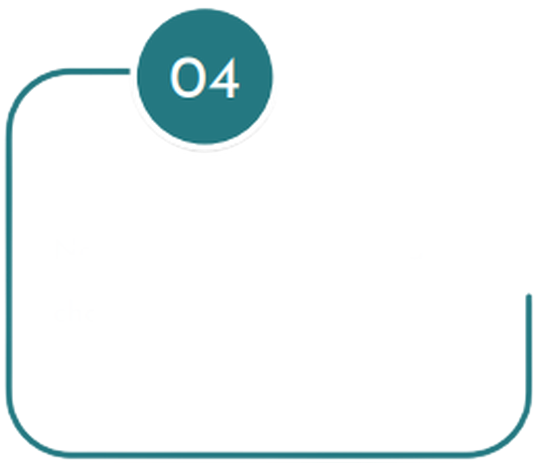
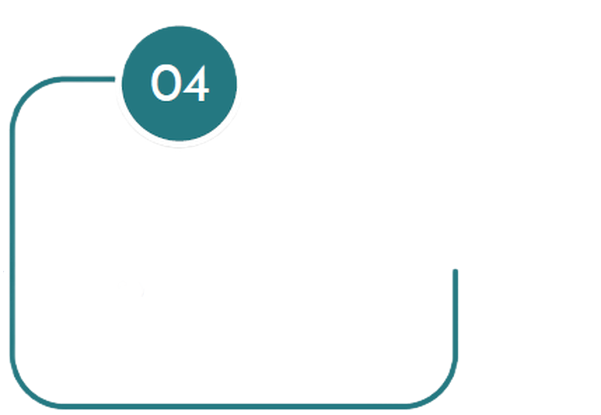
sixteenn

Changed region(s): [[0.0, 0.0, 0.5353, 0.9542], [0.0595, 0.6361, 1.0, 1.0], [0.7435, 0.6361, 0.7732, 0.9253]]

diff --git a/index.html b/index.html
@@ -54,7 +54,6 @@
         
         .swiper-slide img {
             display: block;
-          
         }
     </style>
 
@@ -197,43 +196,39 @@
     <!-- Offer-section-end -->
 
     <!-- four-steps-section-start -->
-    
-    <section class=" h-96 bg-[url('/image/map2.png')] bg-no-repeat bg-fixed bg-left bg-black/10 ">
-        <div class="w-80 mx-auto py-6">
+
+    <section class="bg-cover bg-center bg-[url('/image/map2.png')]   bg-no-repeat bg-fixed bg-right bg-black/10 md:pb-48 sm:pb-80  ">
+        <div class="w-80 md:mx-auto md:py-6 sm:py-12">
             <h4 class="text-xl text-emerald-300 uppercase tracking-wide font-semibold">Four easy steps</h4>
             <h4 class="text-2xl font-medium">How to Get Started</h4>
         </div>
-        <div class=" flex px-40  justify-center " >
-            <div class="backdrop-opacity-10 backdrop-invert bg-white/30">
+        <div class=" xl:px-40 sm:px-20  grid xl:grid-cols-4 md:grid-cols-2 md:justify-items-center gap-y-48">
+            <div class="backdrop-opacity-10 backdrop-invert bg-white/30 md:mb-36">
                 <img src="./image/step1.png" class="w-80" alt="">
-                <p class="-mt-28 font-semibold ml-10">Name your Campaign and <br>
-                    choose your country
+                <p class="-mt-28 font-semibold ml-10 ">Name your Campaign and <br> choose your country
                 </p>
-                <h5 class="text-xl font-medium -mt-36 ml-40"> Setup Your <br> Campaign</h5>
+                <h5 class="text-xl font-medium -mt-36 ml-40 md:-mt-32 md:ml-36"> Setup Your <br> Campaign</h5>
             </div>
-            <div class="backdrop-opacity-10 backdrop-invert bg-white/30">
+            <div class="backdrop-opacity-10 backdrop-invert bg-white/30 md:mb-36">
                 <img src="./image/step2.png" class="w-80" alt="">
-                <p class="-mt-28 font-semibold ml-10">Name your Campaign and <br>
-                    choose your country
+                <p class="-mt-28 font-semibold ml-10">Name your Campaign and <br> choose your country
                 </p>
-                <h5 class="text-xl font-medium -mt-36 ml-40"> Setup Your <br> Campaign</h5>
+                <h5 class="text-xl font-medium -mt-36 ml-40 md:-mt-32 md:ml-36"> Setup Your <br> Campaign</h5>
             </div>
             <div class="backdrop-opacity-10 backdrop-invert bg-white/30">
                 <img src="./image/step3.png" class="w-80" alt="">
-                <p class="-mt-28 font-semibold ml-10">Name your Campaign and <br>
-                    choose your country
+                <p class="-mt-28 font-semibold ml-10">Name your Campaign and <br> choose your country
                 </p>
-                <h5 class="text-xl font-medium -mt-36 ml-40"> Setup Your <br> Campaign</h5>
+                <h5 class="text-xl font-medium -mt-36 ml-40 md:-mt-32 md:ml-36"> Setup Your <br> Campaign</h5>
             </div>
             <div class="backdrop-opacity-10 backdrop-invert bg-white/30">
-                <img src="./image/step4.png" class="w-64" alt="">
-                <p class="-mt-28 font-semibold ml-10">Name your Campaign and <br>
-                    choose your country
+                <img src="./image/step4.png" class="w-80" alt="">
+                <p class="-mt-28 font-semibold ml-10">Name your Campaign and <br> choose your country
                 </p>
-                <h5 class="text-xl font-medium -mt-36 ml-40"> Setup Your <br> Campaign</h5>
+                <h5 class="text-xl font-medium -mt-36 ml-40 md:-mt-32 md:ml-36"> Setup Your <br> Campaign</h5>
             </div>
-      
-            </div>
+
+        </div>
 
         </div>
 
@@ -287,7 +282,7 @@
 
     </section> -->
     <section class="container mx-auto mb-28  lg:px-52">
-        <h1 class="text-center m-20 text-3xl font-light text-xl font-semibold uppercase ">Meet our Team</h1>
+        <h1 class="text-center text-base my-5 text-emerald-300 tracking-wide uppercase   text-5xl">Meet our Team</h1>
 
         <div class="swiper mySwiper1">
             <div class="swiper-wrapper">
@@ -302,8 +297,8 @@
                             <div class="flex justify-center space-x-2">
                                 <a href="#"><img class="w-8 h-8" src="/image/social (3).png" alt="facebook"></a>
                                 <a href="#"> <img class="w-8 h-8" src="/image/social (2).png" alt="instagram"></a>
-                               <a href="#"><img class="w-8 h-8" src="/image/social (1).png" alt="google"></a>
-                                
+                                <a href="#"><img class="w-8 h-8" src="/image/social (1).png" alt="google"></a>
+
                             </div>
                         </div>
                     </div>
@@ -318,7 +313,7 @@
                             <div class="flex justify-center space-x-2">
                                 <a href="#"><img class="w-8 h-8" src="/image/social (3).png" alt="facebook"></a>
                                 <a href="#"> <img class="w-8 h-8" src="/image/social (2).png" alt="instagram"></a>
-                               <a href="#"><img class="w-8 h-8" src="/image/social (1).png" alt="google"></a>
+                                <a href="#"><img class="w-8 h-8" src="/image/social (1).png" alt="google"></a>
                             </div>
                         </div>
                     </div>
@@ -334,7 +329,7 @@
                             <div class="flex justify-center space-x-2">
                                 <a href="#"><img class="w-8 h-8" src="/image/social (3).png" alt="facebook"></a>
                                 <a href="#"> <img class="w-8 h-8" src="/image/social (2).png" alt="instagram"></a>
-                               <a href="#"><img class="w-8 h-8" src="/image/social (1).png" alt="google"></a>
+                                <a href="#"><img class="w-8 h-8" src="/image/social (1).png" alt="google"></a>
                             </div>
                         </div>
                     </div>
@@ -350,7 +345,7 @@
                             <div class="flex justify-center space-x-2">
                                 <a href="#"><img class="w-8 h-8" src="/image/social (3).png" alt="facebook"></a>
                                 <a href="#"> <img class="w-8 h-8" src="/image/social (2).png" alt="instagram"></a>
-                               <a href="#"><img class="w-8 h-8" src="/image/social (1).png" alt="google"></a>
+                                <a href="#"><img class="w-8 h-8" src="/image/social (1).png" alt="google"></a>
                             </div>
                         </div>
                     </div>
@@ -369,9 +364,9 @@
     <!---- our-team-section-end -->
 
     <!-- Our-Client-Section-Start -->
-    
-    <section>
-        <div class="bg-slate-100 max-w-md p-10 rounded">
+
+    <section class="flex justify-center">
+        <div class="bg-slate-100 max-w-md p-10 rounded  ">
             <div class="flex gap-4">
                 <img class="rounded-full w-12 h-12" src="./image/team1.jpg" alt="team">
                 <h5 class="font-semibold">Hasan Md Mehedi <br>CEO,Demo Tech
@@ -384,13 +379,13 @@
 
 
     </section>
- 
+
 
     <!-- Our-Client-Section-End -->
 
-    <!-- Choose_us_section_stat -->
+    <!-- Choose_us_section_start -->
 
-    <section class="cotainer lg:mx-20 mx-auto">
+    <section class="cotainer lg:mx-20 mx-auto md:mx-10 sm:mx-6">
 
         <h2 class="text-5xl text-center text-emerald-300  font-bold py-10">Why choose us</h2>
         <div class="grid lg:grid-cols-3 md:grid-cols-2 md:gap-10">
@@ -467,7 +462,7 @@
     <!-- Choose_us_section_end -->
 
     <!-- Footer-section-start -->
-    <footer class="bg-zinc-200 text-black mt-5 lg:px-40 md:px-20">
+    <footer class="bg-zinc-200 text-black  mt-5 lg:px-40 md:px-20 pt-10">
         <div class="container ">
             <div class="grid lg:grid-cols-3 md:grid-cols-2">
                 <div class="mb-6">
@@ -504,64 +499,16 @@
                             </p>
                         </li>
 
-
                         <li>
-                            <div class=" mb-6">
-                                <a href="#!" type="button" class="rounded-full border-2 border-teal-200 text-white leading-normal uppercase hover:bg-black hover:bg-opacity-5 focus:outline-none focus:ring-0 transition duration-150 ease-in-out w-9 h-9 m-1">
-                                    <svg aria-hidden="true" focusable="false" data-prefix="fab" data-icon="facebook-f" class="w-2 h-full mx-auto" role="img" xmlns="http://www.w3.org/2000/svg" viewBox="0 0 320 512">
-                      <path
-                        fill="currentColor"
-                        d="M279.14 288l14.22-92.66h-88.91v-60.13c0-25.35 12.42-50.06 52.24-50.06h40.42V6.26S260.43 0 225.36 0c-73.22 0-121.08 44.38-121.08 124.72v70.62H22.89V288h81.39v224h100.17V288z"
-                      ></path>
-                      </svg>
-                                </a>
+                            <div class="flex space-x-6">
+                                <a href="#"><img class="w-8 h-8" src="/image/social (3).png" alt="facebook"></a>
+                                <a href="#"> <img class="w-8 h-8" src="/image/social (2).png" alt="instagram"></a>
+                                <a href="#"><img class="w-8 h-8" src="/image/social (1).png" alt="google"></a>
+                                <a href="#"><img class="w-8 h-8" src="/image/social (4).png" alt="google"></a>
 
-                                <a href="#!" type="button" class="rounded-full border-2 border-teal-200 text-white leading-normal uppercase hover:bg-black hover:bg-opacity-5 focus:outline-none focus:ring-0 transition duration-150 ease-in-out w-9 h-9 m-1">
-                                    <svg aria-hidden="true" focusable="false" data-prefix="fab" data-icon="twitter" class="w-3 h-full mx-auto" role="img" xmlns="http://www.w3.org/2000/svg" viewBox="0 0 512 512">
-                        <path
-                          fill="currentColor"
-                          d="M459.37 151.716c.325 4.548.325 9.097.325 13.645 0 138.72-105.583 298.558-298.558 298.558-59.452 0-114.68-17.219-161.137-47.106 8.447.974 16.568 1.299 25.34 1.299 49.055 0 94.213-16.568 130.274-44.832-46.132-.975-84.792-31.188-98.112-72.772 6.498.974 12.995 1.624 19.818 1.624 9.421 0 18.843-1.3 27.614-3.573-48.081-9.747-84.143-51.98-84.143-102.985v-1.299c13.969 7.797 30.214 12.67 47.431 13.319-28.264-18.843-46.781-51.005-46.781-87.391 0-19.492 5.197-37.36 14.294-52.954 51.655 63.675 129.3 105.258 216.365 109.807-1.624-7.797-2.599-15.918-2.599-24.04 0-57.828 46.782-104.934 104.934-104.934 30.213 0 57.502 12.67 76.67 33.137 23.715-4.548 46.456-13.32 66.599-25.34-7.798 24.366-24.366 44.833-46.132 57.827 21.117-2.273 41.584-8.122 60.426-16.243-14.292 20.791-32.161 39.308-52.628 54.253z"
-                        ></path>
-                      </svg>
-                                </a>
-
-                                <a href="#!" type="button" class="rounded-full border-2 border-white border-teal-200 leading-normal uppercase hover:bg-black hover:bg-opacity-5 focus:outline-none focus:ring-0 transition duration-150 ease-in-out w-9 h-9 m-1">
-                                    <svg aria-hidden="true" focusable="false" data-prefix="fab" data-icon="google" class="w-3 h-full mx-auto" role="img" xmlns="http://www.w3.org/2000/svg" viewBox="0 0 488 512">
-                        <path
-                          fill="currentColor"
-                          d="M488 261.8C488 403.3 391.1 504 248 504 110.8 504 0 393.2 0 256S110.8 8 248 8c66.8 0 123 24.5 166.3 64.9l-67.5 64.9C258.5 52.6 94.3 116.6 94.3 256c0 86.5 69.1 156.6 153.7 156.6 98.2 0 135-70.4 140.8-106.9H248v-85.3h236.1c2.3 12.7 3.9 24.9 3.9 41.4z"
-                        ></path>
-                      </svg>
-                                </a>
-
-                                <a href="#!" type="button" class="rounded-full border-2 border-white border-teal-200 leading-normal uppercase hover:bg-black hover:bg-opacity-5 focus:outline-none focus:ring-0 transition duration-150 ease-in-out w-9 h-9 m-1">
-                                    <svg aria-hidden="true" focusable="false" data-prefix="fab" data-icon="instagram" class="w-3 h-full mx-auto" role="img" xmlns="http://www.w3.org/2000/svg" viewBox="0 0 448 512">
-                        <path
-                          fill="currentColor"
-                          d="M224.1 141c-63.6 0-114.9 51.3-114.9 114.9s51.3 114.9 114.9 114.9S339 319.5 339 255.9 287.7 141 224.1 141zm0 189.6c-41.1 0-74.7-33.5-74.7-74.7s33.5-74.7 74.7-74.7 74.7 33.5 74.7 74.7-33.6 74.7-74.7 74.7zm146.4-194.3c0 14.9-12 26.8-26.8 26.8-14.9 0-26.8-12-26.8-26.8s12-26.8 26.8-26.8 26.8 12 26.8 26.8zm76.1 27.2c-1.7-35.9-9.9-67.7-36.2-93.9-26.2-26.2-58-34.4-93.9-36.2-37-2.1-147.9-2.1-184.9 0-35.8 1.7-67.6 9.9-93.9 36.1s-34.4 58-36.2 93.9c-2.1 37-2.1 147.9 0 184.9 1.7 35.9 9.9 67.7 36.2 93.9s58 34.4 93.9 36.2c37 2.1 147.9 2.1 184.9 0 35.9-1.7 67.7-9.9 93.9-36.2 26.2-26.2 34.4-58 36.2-93.9 2.1-37 2.1-147.8 0-184.8zM398.8 388c-7.8 19.6-22.9 34.7-42.6 42.6-29.5 11.7-99.5 9-132.1 9s-102.7 2.6-132.1-9c-19.6-7.8-34.7-22.9-42.6-42.6-11.7-29.5-9-99.5-9-132.1s-2.6-102.7 9-132.1c7.8-19.6 22.9-34.7 42.6-42.6 29.5-11.7 99.5-9 132.1-9s102.7-2.6 132.1 9c19.6 7.8 34.7 22.9 42.6 42.6 11.7 29.5 9 99.5 9 132.1s2.7 102.7-9 132.1z"
-                        ></path>
-                      </svg>
-                                </a>
-
-                                <a href="#!" type="button" class="rounded-full border-2 border-white border-teal-200 leading-normal uppercase hover:bg-black hover:bg-opacity-5 focus:outline-none focus:ring-0 transition duration-150 ease-in-out w-9 h-9 m-1">
-                                    <svg aria-hidden="true" focusable="false" data-prefix="fab" data-icon="linkedin-in" class="w-3 h-full mx-auto" role="img" xmlns="http://www.w3.org/2000/svg" viewBox="0 0 448 512">
-                        <path
-                          fill="currentColor"
-                          d="M100.28 448H7.4V148.9h92.88zM53.79 108.1C24.09 108.1 0 83.5 0 53.8a53.79 53.79 0 0 1 107.58 0c0 29.7-24.1 54.3-53.79 54.3zM447.9 448h-92.68V302.4c0-34.7-.7-79.2-48.29-79.2-48.29 0-55.69 37.7-55.69 76.7V448h-92.78V148.9h89.08v40.8h1.3c12.4-23.5 42.69-48.3 87.88-48.3 94 0 111.28 61.9 111.28 142.3V448z"
-                        ></path>
-                      </svg>
-                                </a>
-
-                                <a href="#!" type="button" class="rounded-full border-2 border-teal-200 text-black leading-normal uppercase hover:bg-black hover:bg-opacity-5 focus:outline-none focus:ring-0 transition duration-150 ease-in-out w-9 h-9 m-1">
-                                    <svg aria-hidden="true" focusable="false" data-prefix="fab" data-icon="github" class="w-3 h-full mx-auto" role="img" xmlns="http://www.w3.org/2000/svg" viewBox="0 0 496 512">
-                        <path
-                          fill="currentColor"
-                          d="M165.9 397.4c0 2-2.3 3.6-5.2 3.6-3.3.3-5.6-1.3-5.6-3.6 0-2 2.3-3.6 5.2-3.6 3-.3 5.6 1.3 5.6 3.6zm-31.1-4.5c-.7 2 1.3 4.3 4.3 4.9 2.6 1 5.6 0 6.2-2s-1.3-4.3-4.3-5.2c-2.6-.7-5.5.3-6.2 2.3zm44.2-1.7c-2.9.7-4.9 2.6-4.6 4.9.3 2 2.9 3.3 5.9 2.6 2.9-.7 4.9-2.6 4.6-4.6-.3-1.9-3-3.2-5.9-2.9zM244.8 8C106.1 8 0 113.3 0 252c0 110.9 69.8 205.8 169.5 239.2 12.8 2.3 17.3-5.6 17.3-12.1 0-6.2-.3-40.4-.3-61.4 0 0-70 15-84.7-29.8 0 0-11.4-29.1-27.8-36.6 0 0-22.9-15.7 1.6-15.4 0 0 24.9 2 38.6 25.8 21.9 38.6 58.6 27.5 72.9 20.9 2.3-16 8.8-27.1 16-33.7-55.9-6.2-112.3-14.3-112.3-110.5 0-27.5 7.6-41.3 23.6-58.9-2.6-6.5-11.1-33.3 2.6-67.9 20.9-6.5 69 27 69 27 20-5.6 41.5-8.5 62.8-8.5s42.8 2.9 62.8 8.5c0 0 48.1-33.6 69-27 13.7 34.7 5.2 61.4 2.6 67.9 16 17.7 25.8 31.5 25.8 58.9 0 96.5-58.9 104.2-114.8 110.5 9.2 7.9 17 22.9 17 46.4 0 33.7-.3 75.4-.3 83.6 0 6.5 4.6 14.4 17.3 12.1C428.2 457.8 496 362.9 496 252 496 113.3 383.5 8 244.8 8zM97.2 352.9c-1.3 1-1 3.3.7 5.2 1.6 1.6 3.9 2.3 5.2 1 1.3-1 1-3.3-.7-5.2-1.6-1.6-3.9-2.3-5.2-1zm-10.8-8.1c-.7 1.3.3 2.9 2.3 3.9 1.6 1 3.6.7 4.3-.7.7-1.3-.3-2.9-2.3-3.9-2-.6-3.6-.3-4.3.7zm32.4 35.6c-1.6 1.3-1 4.3 1.3 6.2 2.3 2.3 5.2 2.6 6.5 1 1.3-1.3.7-4.3-1.3-6.2-2.2-2.3-5.2-2.6-6.5-1zm-11.4-14.7c-1.6 1-1.6 3.6 0 5.9 1.6 2.3 4.3 3.3 5.6 2.3 1.6-1.3 1.6-3.9 0-6.2-1.4-2.3-4-3.3-5.6-2z"
-                        ></path>
-                      </svg>
-                                </a>
                             </div>
                         </li>
+
 
                     </ul>
                 </div>
@@ -604,22 +551,21 @@
 
 
                                 <div class="md:mb-6">
-                                    <input type="text" class="
-                              form-control rounded-full 
-                              block
-                              m-full
-                              px-3
-                              py-1.5
-                              text-base
-                              font-normal
-                              text-gray-700
-                              bg-white bg-clip-padding
-                              border border-solid border-teal-400
-                              rounded
-                              transition
-                              ease-in-out
-                              my-6
-                              focus:text-gray-700 focus:bg-white focus:border-cyan-900 focus:outline-none
+                                    <input type="text" class="form-control rounded-full 
+                                    block
+                                    m-full shadow-xl
+                                    px-20
+                                    py-4
+                                    text-base
+                                    font-normal
+                                    text-gray-700
+                                    bg-white bg-clip-padding
+                                    border-2 border-solid border-teal-400
+                                 
+                                    transition
+                                    ease-in-out
+                                    my-8
+                                    focus:text-gray-700 focus:bg-white focus:border-cyan-900 focus:outline-none 
                             " id="exampleFormControlInput1" placeholder="Email address" />
                                     <div class="md:mr-auto mb-6">
                                         <button type="submit" class="inline-block px-8 py-3  border-white text-white font-medium text-xs leading-tight uppercase rounded-full  hover:bg-black hover:bg-opacity-5 focus:outline-none focus:ring-0 transition duration-150 ease-in-out bg-teal-400">
@@ -665,24 +611,24 @@
                 disableOnInteraction: false,
             },
             breakpoints: {
-                "@0.00": {
+                640: {
                     slidesPerView: 1,
-                    spaceBetween: 10,
-                },
-                "@0.75": {
-                    slidesPerView: 2,
                     spaceBetween: 20,
                 },
-                "@1.00": {
-                    slidesPerView: 3,
+                768: {
+                    slidesPerView: 2,
                     spaceBetween: 40,
+                },
+                1024: {
+                    slidesPerView: 3,
+                    spaceBetween: 50,
                 }
 
             },
         });
     </script>
 
-    
+
 
 
 
